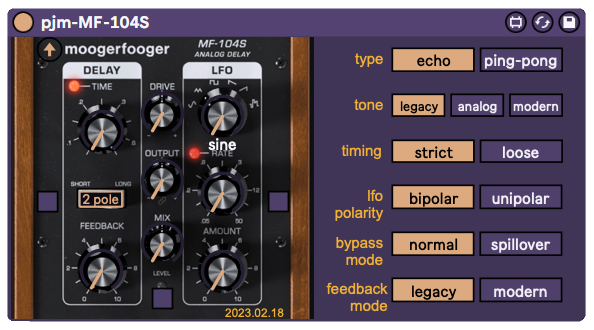
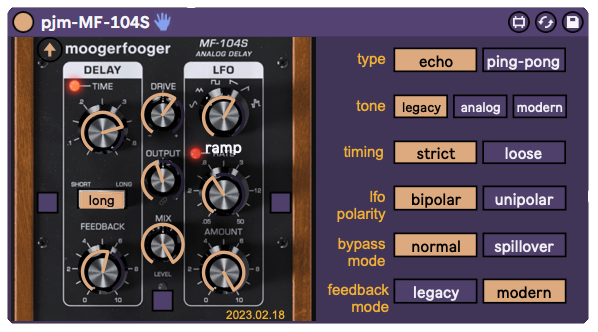
fixed readme and labeling on delay range

diff --git a/README.md b/README.md
@@ -139,28 +139,12 @@ pjm-MF-104S Analog Delay
 
 ![pjm-MF-104S Ableton device](./images/pjm-MF-104S.png)
 
-xxx The LFO Sync control is the toggle to the left of the LFO Range
-button. The Link Gains and LFO Type controls are the toggles beneath
-the Output knob.  The Output Mode control is the menu below the LFO
-Type toggle.
+The Time Sync control is the toggle to the left of the Delay Range
+switch (short/long). The LFO Sync control is the toggle to the right of
+the LFO Rate knob. The Link Gains control is the toggle beneath
+the Mix knob.
 
 VST parameter number, parameter names, with associated Moog name:
-
-| param  | pjm name | Moog name |
-| ------ | -------- | --------- |
-|      2 | drive    | Drive |
-|      3 | output   | Output Level |
-|      4 | link     | Link Gains |
-|      5 | lfo      | LFO Amount |
-|      6 | range    | LFO Range |
-|      7 | rate     | LFO Rate |
-|      8 | sync     | LFO Sync |
-|      9 | sweep    | Sweep |
-|     10 | stages   | Stages |
-|     11 | res      | Resonance |
-|     12 | mode     | Output Mode |
-|     13 | type     | LFO Type |
-
 
 | param  | pjm name      | Moog name |
 | ------ | ------------- | --------- |
